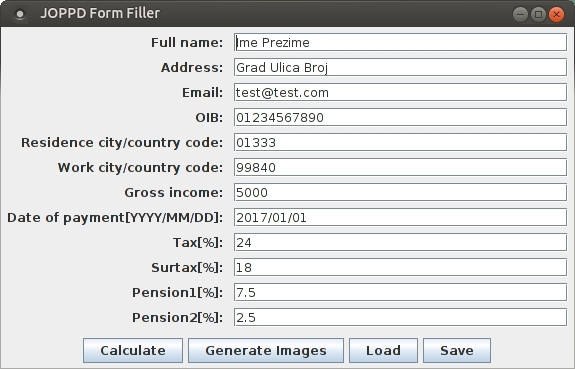
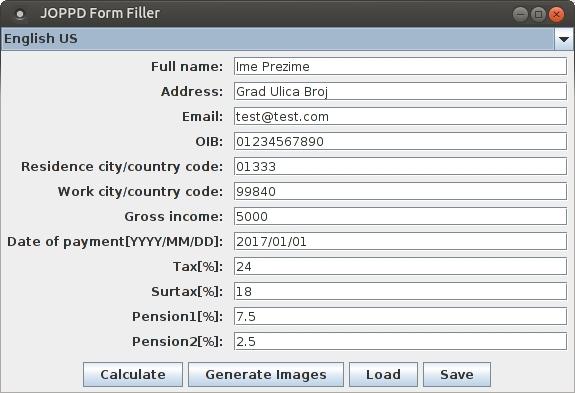
Added the option to change the display language and other small changes

Changed region(s): [[0.0, 0.0, 1.0, 1.0]]

diff --git a/src/main/java/com/mirkogrcic/gui/DataEditPanel.java b/src/main/java/com/mirkogrcic/gui/DataEditPanel.java
@@ -29,31 +29,14 @@ public class DataEditPanel extends JPanel {
     private Data config;
     private LocalizedText localizedText;
 
-    private List<JTextField> textFieldList;
+    private List<JLabel> labelList = new ArrayList<>();
+    private List<JTextField> textFieldList = new ArrayList<>();
 
 
     public DataEditPanel(Data config){
         super(new SpringLayout());
         this.config = config;
         this.localizedText = LocalizedText.getInstance();
-        this.textFieldList = new ArrayList<>();
-
-        final String[] labels = {
-                localizedText.format("FullName") + ": ",
-                localizedText.format("Address") + ": ",
-                localizedText.format("Email") + ": ",
-                localizedText.format("OIB") + ": ",
-                localizedText.format("CityCodeResidence") + ": ",
-                localizedText.format("CityCodeWork") + ": ",
-
-                localizedText.format("GrossIncome") + ": ",
-                localizedText.format("DateOfPayment") + "[YYYY/MM/DD]: ",
-
-                localizedText.format("Tax") + "[%]: ",
-                localizedText.format("Surtax") + "[%]: ",
-                localizedText.format("Pension1") + "[%]: ",
-                localizedText.format("Pension2") + "[%]: ",
-        };
 
         final String[] command_names = {
                 "fullName",
@@ -89,9 +72,10 @@ public class DataEditPanel extends JPanel {
                 config.getPension2().toString()
         };
 
-        for( int i = 0; i < labels.length; ++i ){
-            JLabel l = new JLabel(labels[i], JLabel.TRAILING);
+        for( int i = 0; i < command_names.length; ++i ){
+            JLabel l = new JLabel("", JLabel.TRAILING);
             this.add(l);
+            labelList.add(l);
 
             JTextField tf = new JTextField(values[i],30);
             tf.getDocument().addDocumentListener(new TextFieldListener(command_names[i], tf));
@@ -100,7 +84,37 @@ public class DataEditPanel extends JPanel {
             textFieldList.add(tf);
         }
 
-        SpringUtilities.makeCompactGrid(this, labels.length, 2, 6, 6, 6, 6);
+        updateLabels();
+
+        SpringUtilities.makeCompactGrid(this, labelList.size(), 2, 6, 6, 6, 6);
+
+        localizedText.addLocaleChangeListener(
+                (oldLocale, newLocale) -> DataEditPanel.this.updateLabels());
+    }
+
+    private void updateLabels() {
+        final String[] labels = {
+                localizedText.format("FullName") + ": ",
+                localizedText.format("Address") + ": ",
+                localizedText.format("Email") + ": ",
+                localizedText.format("OIB") + ": ",
+                localizedText.format("CityCodeResidence") + ": ",
+                localizedText.format("CityCodeWork") + ": ",
+
+                localizedText.format("GrossIncome") + ": ",
+                localizedText.format("DateOfPayment") + "[YYYY/MM/DD]: ",
+
+                localizedText.format("Tax") + "[%]: ",
+                localizedText.format("Surtax") + "[%]: ",
+                localizedText.format("Pension1") + "[%]: ",
+                localizedText.format("Pension2") + "[%]: ",
+        };
+
+        for (int i = 0; i < labelList.size(); i++) {
+            labelList.get(i).setText(labels[i]);
+        }
+
+        logger.debug("Labels updated");
     }
 
     public void updateFromConfig(){

diff --git a/src/main/java/com/mirkogrcic/gui/DataWindow.java b/src/main/java/com/mirkogrcic/gui/DataWindow.java
@@ -69,11 +69,11 @@ public class DataWindow extends JFrame {
         String[] langStrings = Locales.getTitles().toArray(new String[0]);
         JComboBox<String> langList = new JComboBox<>(langStrings);
         langList.setSelectedIndex(
-                this.getLocale().getISO3Language().equals("eng") ? 0 : 1
+                this.getLocale().getISO3Language().equals("eng") ? 1 : 0
         );
         langList.setActionCommand("ChangeLanguage");
         langList.addActionListener(new ButtonClickListener());
-        //mainPanel.add(langList);
+        mainPanel.add(langList);
 
         mainPanel.add(inputPanel);
 
@@ -136,15 +136,18 @@ public class DataWindow extends JFrame {
                         JComboBox<String> comboBox = (JComboBox<String>) actionEvent.getSource();
                         String selectedValue = (String) comboBox.getSelectedItem();
                         Locale newLocale = DataWindow.this.getLocale();
+                        logger.debug("Selected locale: {}", selectedValue);
                         switch (selectedValue) {
-                            case "English":
-                                newLocale = new Locale("en_US");
+                            case "English US":
+                                newLocale = new Locale("en", "US");
                                 break;
-                            case "Croatian":
-                                newLocale = new Locale("hr_HR");
+                            case "Hrvatski":
+                                newLocale = new Locale("hr", "HR");
                                 break;
                         }
-                        DataWindow.this.setLocale(newLocale);
+                        Locale.setDefault(newLocale);
+                        DataWindow.this.localizedText.updateLocale();
+                        logger.info("Updated locale: {}", newLocale);
                     }
                     break;
                 }

diff --git a/src/main/java/com/mirkogrcic/Locales/LocalizedText.java b/src/main/java/com/mirkogrcic/Locales/LocalizedText.java
@@ -2,6 +2,8 @@ package com.mirkogrcic.Locales;
 
 import com.mirkogrcic.utils.UTF8Control;
 import java.text.MessageFormat;
+import java.util.ArrayList;
+import java.util.List;
 import java.util.Locale;
 import java.util.ResourceBundle;
 import org.slf4j.Logger;
@@ -11,9 +13,10 @@ public class LocalizedText {
     private static Logger logger = LoggerFactory.getLogger(LocalizedText.class);
     private static LocalizedText instance;
 
-    Locale locale;
-    ResourceBundle messages;
-    MessageFormat fmt;
+    private Locale locale;
+    private ResourceBundle messages;
+    private MessageFormat fmt;
+    private List<LocaleChangeListener> localeChangeListeners = new ArrayList<>();
 
     private LocalizedText() {
         this.fmt = new MessageFormat("");
@@ -42,11 +45,20 @@ public class LocalizedText {
     public void updateLocale(){
         locale = Locale.getDefault(Locale.Category.DISPLAY);
         messages = ResourceBundle.getBundle("lang", locale, new UTF8Control());
+        Locale oldLocale = fmt.getLocale();
         fmt.setLocale(locale);
+
+        for (LocaleChangeListener localeChangeListener : localeChangeListeners) {
+            localeChangeListener.localeChanged(oldLocale, locale);
+        }
     }
 
     public Boolean localeChanged(){
         return instance.locale != Locale.getDefault(Locale.Category.DISPLAY);
+    }
+
+    public void addLocaleChangeListener(LocaleChangeListener localeChangeListener) {
+        localeChangeListeners.add(localeChangeListener);
     }
 
     public static LocalizedText getInstance(){
@@ -61,5 +73,9 @@ public class LocalizedText {
             instance.updateLocale();
         }
         return instance;
+    }
+
+    public interface LocaleChangeListener {
+        void localeChanged(Locale oldLocale, Locale newLocale);
     }
 }

diff --git a/src/main/java/com/mirkogrcic/gui/ResultWindow.java b/src/main/java/com/mirkogrcic/gui/ResultWindow.java
@@ -59,7 +59,7 @@ public class ResultWindow extends JDialog {
                 localizedText.format("Pension1") + ": ",
                 localizedText.format("Pension2") + ": ",
                 localizedText.formatString("%s + %s: ","Pension1", "Pension2"),
-                String.format("%s - %s - %s: ","GrossIncome", "Pension1", "Pension2"),
+                localizedText.formatString("%s - %s - %s: ","GrossIncome", "Pension1", "Pension2"),
 
                 localizedText.format("Tax") + ": ",
                 localizedText.format("Surtax") + ": ",

diff --git a/README.md b/README.md
@@ -4,15 +4,25 @@
 
 ![Alt text](/images/Calculation_results.jpg?raw=true "Screenshot")
 
-# English
-This application is used to calculate income tax from abroad based on a second income and to fill out the JOPPD form that is submitted to the tax administration in Croatia.
-Output samples can be found in the images/output folder
-
-Be sure to consult a tax adviser before using the application.
-
 # Hrvatski
 Ova aplikacija služi za izračun poreza na dohodak iz inozemstva po osnovi drugog dohodka i za ispunjenje JOPPD obrazca koji se predaje poreznoj upravi u Hrvatskoj.
 Uzorci izlaza mogu se naći u mapi images/output
 
 Obavezno se posavjetujte sa poreznim savjetnikom prije korištenja aplikacije.
 
+# English
+This application is used to calculate income tax from abroad based on a second income and to fill out the JOPPD form that is submitted to the tax administration in Croatia.
+Output samples can be found in the images/output folder
+
+Be sure to consult a tax adviser before using the application.
+
+# Compilation
+Dependencies:
+- Maven
+- Java 8+ JDK
+
+To compile run this command
+``` bash
+mvn clean package
+```
+The resulting jar file will be available in the "target" folder

diff --git a/testing.md b/testing.md
@@ -1,0 +1,10 @@
+
+
+# Changing localization
+Available: hr_HR.utf8, en_US.utf8
+
+## Linux - Environment variable
+- export LC_ALL=hr_HR.utf8
+- export LC_NUMERIC=hr_HR.utf8
+- export LC_TIME=hr_HR.utf8
+- export LANG=hr_HR.utf8
